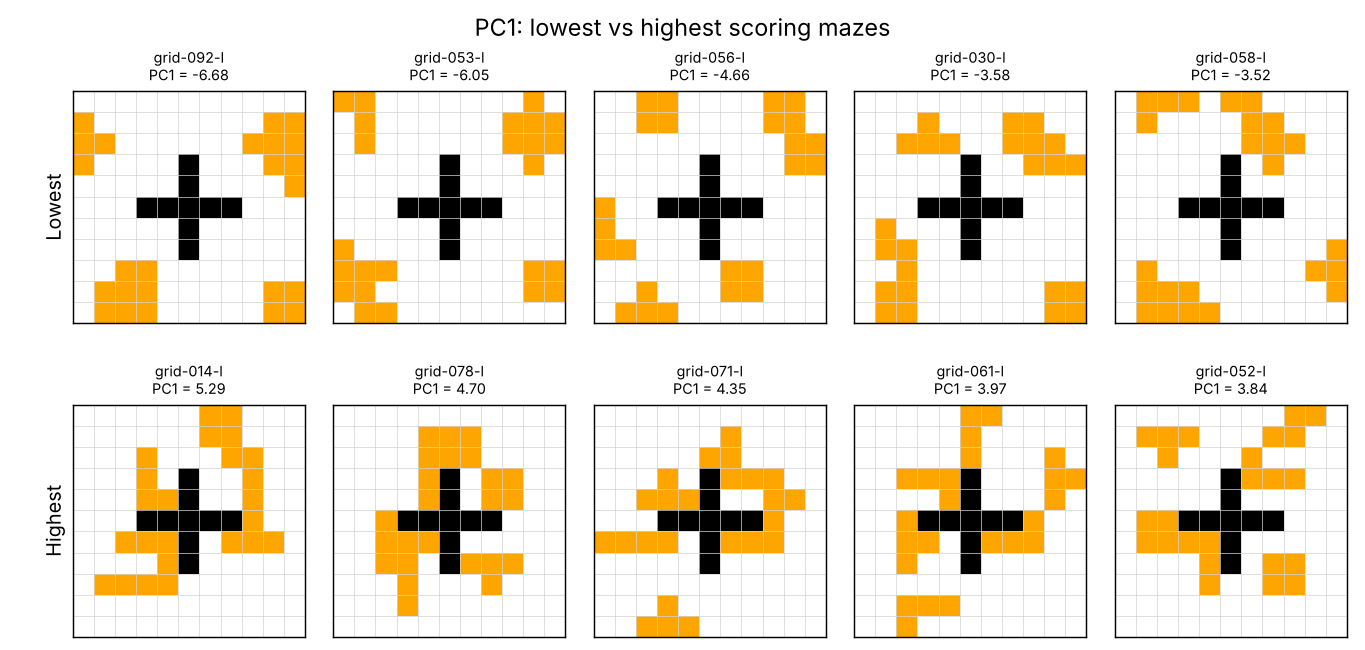
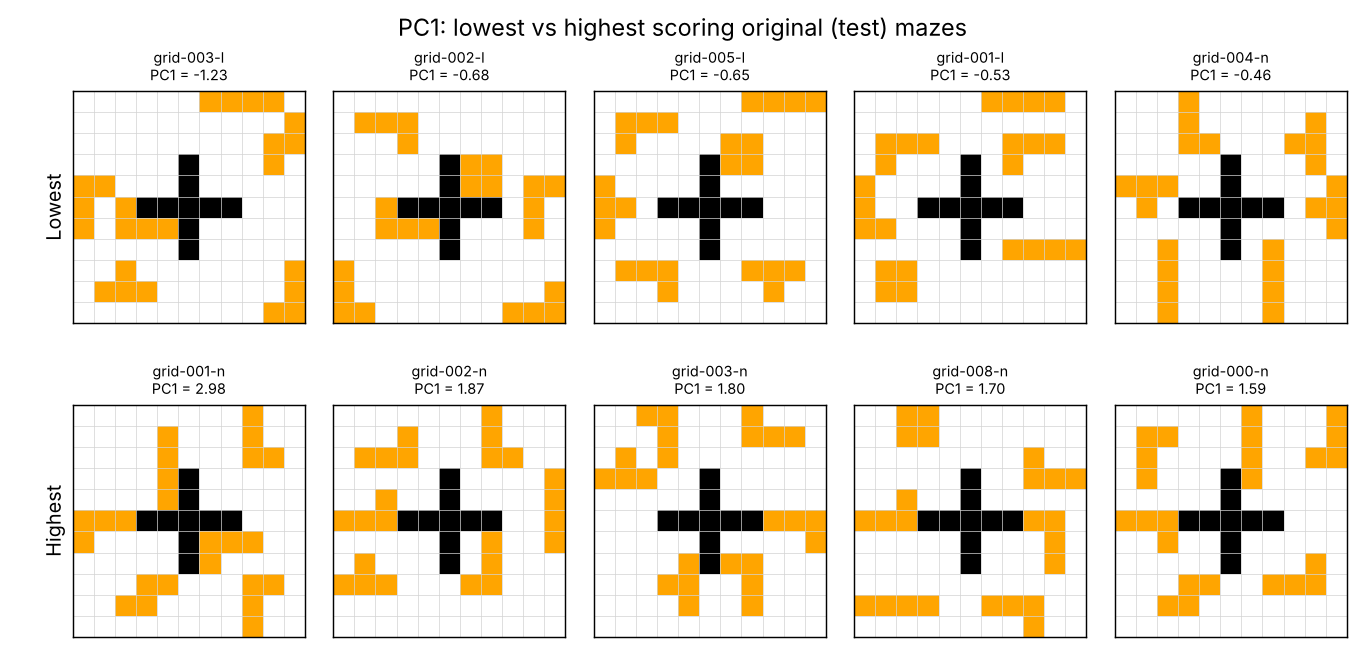
README: show test-set mazes for each PC, drop scree plot

diff --git a/make_readme_figures.py b/make_readme_figures.py
@@ -2,9 +2,10 @@
 Figures for the README: the layouts with the lowest and highest scores on
 the first three principal components.
 
-Reads pca/pca_scores.csv (written by maze_pca.R; covers all 124 layouts,
-the 24 originals projected onto the PCA fitted on the 100 generated ones) and
-the maze JSON files. Writes docs/pc1_extremes.png ... docs/pc3_extremes.png.
+Reads pca/pca_scores.csv (written by maze_pca.R) and the maze JSON files.
+By default only the 24 original mazes are shown - the held-out test set,
+projected onto the PCA fitted on the 100 generated layouts. Use --set
+generated or --set all to pick from the training layouts instead. Writes docs/pc1_extremes.png ... docs/pc3_extremes.png.
 
 Usage (from the repo root):
   Rscript maze_pca.R
@@ -35,9 +36,13 @@ def main():
     p.add_argument("--out", default="docs")
     p.add_argument("--pcs", nargs="+", default=["PC1", "PC2", "PC3"])
     p.add_argument("--n", type=int, default=5, help="mazes per end of each PC")
+    p.add_argument("--set", choices=["original", "generated", "all"], default="original",
+                   help="which layouts to pick from (default: the 24 original/test mazes)")
     args = p.parse_args()
 
     scores = pd.read_csv(args.scores, index_col="base_id")
+    if args.set != "all":
+        scores = scores[scores["set"] == args.set]
     mazes = {}
     for path in args.mazes:
         with open(path, "r", encoding="utf-8") as f:
@@ -53,12 +58,14 @@ def main():
             for c, maze_id in enumerate(ids):
                 # path and S/G are left out: the path measures in the PCA are
                 # averages over all S/G variants, not the base S/G
-                tag = " (original)" if scores.loc[maze_id, "set"] == "original" else ""
+                tag = " (original)" if args.set == "all" and scores.loc[maze_id, "set"] == "original" else ""
                 draw_maze(axes[r, c], mazes[maze_id], show_path=False, show_sg=False,
                           title=f"{maze_id}{tag}\n{pc} = {ranked[maze_id]:.2f}", title_size=8)
             axes[r, 0].set_ylabel(label, fontsize=11)
 
-        fig.suptitle(f"{pc}: lowest vs highest scoring mazes", fontsize=13)
+        which = {"original": "original (test) mazes", "generated": "generated (training) layouts",
+                 "all": "all layouts"}[args.set]
+        fig.suptitle(f"{pc}: lowest vs highest scoring {which}", fontsize=13)
         fig.subplots_adjust(left=0.05, right=0.99, top=0.86, bottom=0.02, wspace=0.08, hspace=0.35)
         out_path = os.path.join(args.out, f"{pc.lower()}_extremes.png")
         fig.savefig(out_path, dpi=130)

diff --git a/README.md b/README.md
@@ -75,9 +75,7 @@ python make_readme_figures.py
 
 Only the first three components explain more variance than shuffled data (permutation p < .001; PC4 p = .71). Together they explain 62% of the variance.
 
-![Scree plot against the permutation null](docs/pca/scree_permutation.png)
-
-The figures below show the five lowest- and five highest-scoring layouts on each component, out of all 124. S, G and paths aren't drawn, because the path measures in the PCA are averages over each layout's 100 S/G variants. Loading plots with bootstrap CIs are in [`docs/pca/`](docs/pca/).
+The figures below show the five lowest- and five highest-scoring mazes on each component, taken from the 24 original mazes (the test set, which wasn't used to fit the PCA). S, G and paths aren't drawn, because the path measures in the PCA are averages over each layout's 100 S/G variants. Loading plots with bootstrap CIs and the permutation scree plot are in [`docs/pca/`](docs/pca/). To pick the examples from the training layouts instead, run `python make_readme_figures.py --set generated`.
 
 ### PC1 (31.6%): spread-out vs clustered obstacles
 
